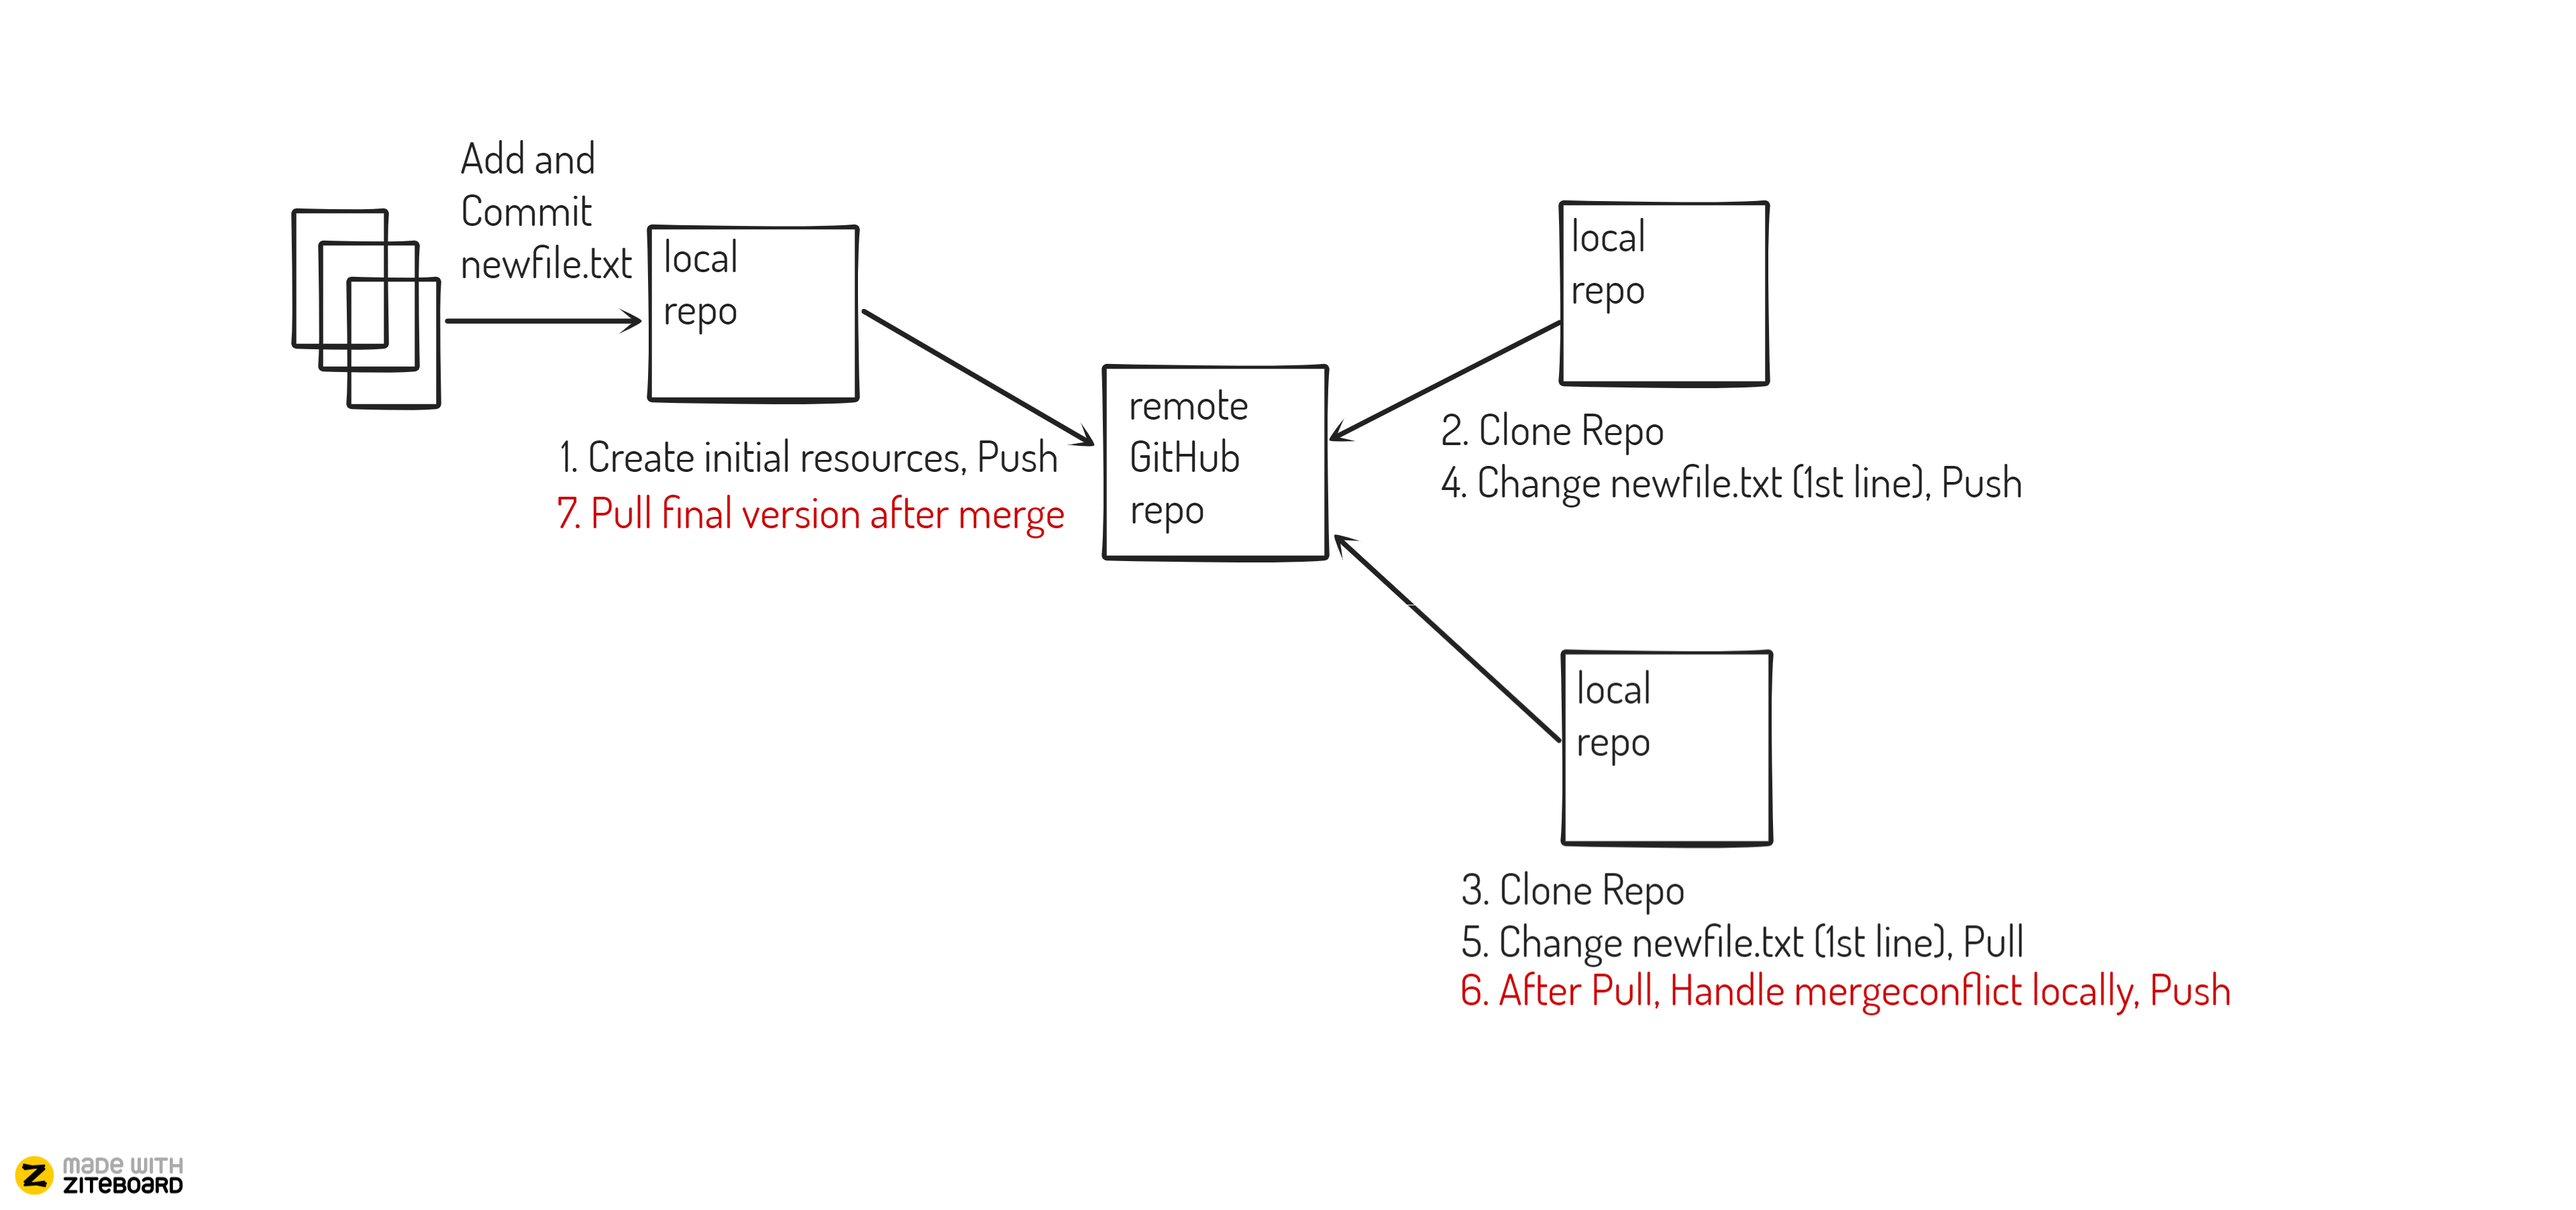
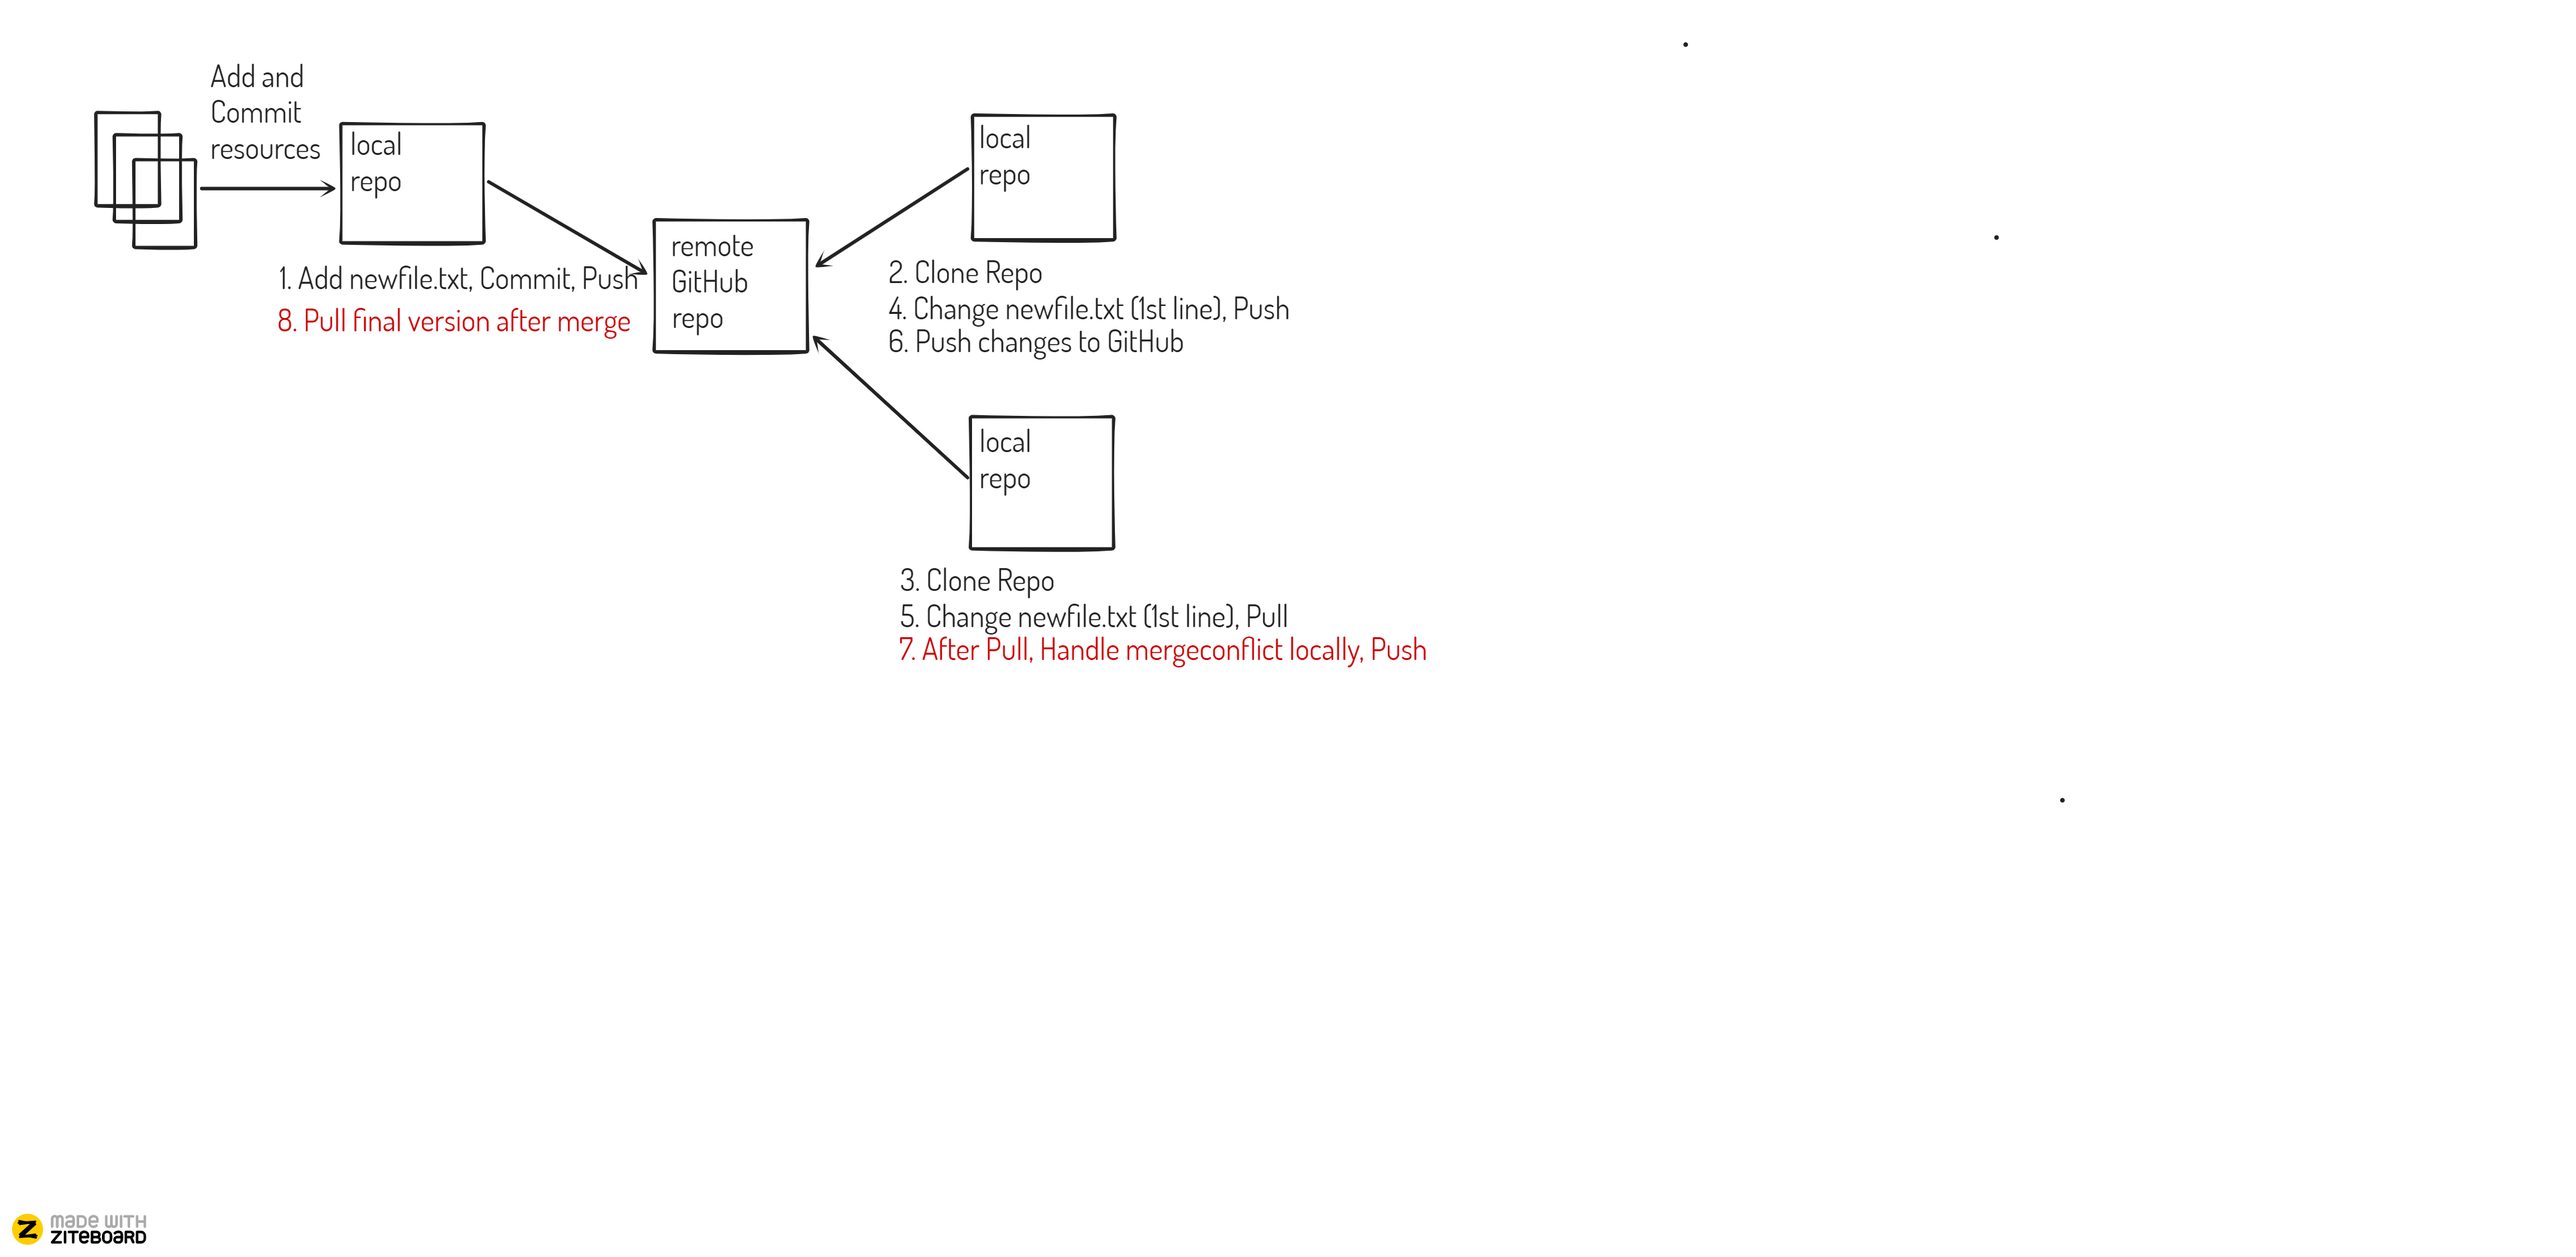
Add new Steps.

diff --git a/dojos/merge-a-SEA-resource.md b/dojos/merge-a-SEA-resource.md
@@ -1,6 +1,6 @@
-# Create a SEA Resource Repo
+# Merge a SEA Resource Repo
 
-    As a participant of SEA, I can quickly access (and change) resources which are important for the training.
+    As a participant of SEA, I want to add new resources to the existing GitHub Repo.
 
 ## Dojo
 
@@ -8,58 +8,23 @@
 
 ### Setup
 
-* Set default branch to "main"
-* `git config --global init.defaultBranch main`
+(Co) Step 1a: Create a local git repository  
+(Co) Step 1b: Add a new file with at least one line to the repo  
+(Co) Step 1c: Commit the new file  
+(Co) Step 1d: Create a new repository on GitHub  
+(Co) Step 1e: Push local changes to GitHub
 
-Step 1: Create a local git repository 
+(Ma) Step 2: Clone Repo (...) to local Repo  
+(Ma) Step 4: Change first line of newfile.txt and commit  
 
-* `git init`
+(Ch) Step 3: Clone Repo (...) to new local Repo  
+(Ch) Step 5: Change first line of newfile.txt and commit
 
-Step 2: Add a new file to the repo (eg. links.md)
+(Ma) Step 6: Push changes to GitHub
 
-* create file links.md
-* `git add links.md`
+(Ch) Step 7a: Push changes to GitHub  
+(Ch) Step 7b: Resolve Merge Conflict  
+(Ch) Step 7c: Push changes to GitHub
 
-Step 3: Commit the new file
-
-* `git commit -m "New file created."`
-
-Step 4: Create a new repository on GitHub
-
-* github.com im Browser aufrufen
-* eigenes repo unter eigenem User erstellen (zb https://github.com/WildCodeSchool/)
-
-Step 5: Set Origin on local Repo
-
-* Copy Repo URL (REPO_URL) from GitHub (HTTPS!)
-* `git remote add origin ${REPO_URL}`
-
-Step 6: Push the changes to the GitHub Repo
-
-* `git push origin main`
-
-_Note_: GitHub Personal Access Token is necessary here, see file [links.md](../links/links.md)
-
-Step 7: Clone Repo to new local Repo
-
-* `cd ..`
-* `git clone ${REPO_URL} sea-resources-clone`
-
-Step 8: Add new links to the links.md
-
-* `git add links.md`
-* `git commit -m "Links hinzugefügt."`
-
-Step 9: Push the changes
-
-* `git push origin main`
-
-Step 10: Revisit the changes in GitHub
-
-Step 11: Get the latest changes to first local Repo
-
-### Known Issues
-
-Q: "main and master are entirely different commit histories."  
-A: https://stackoverflow.com/questions/23344320/there-isnt-anything-to-compare-nothing-to-compare-branches-are-entirely-diffe
-
+(RR) Step 8a: Clone repo to local repo  
+(RR) Step 8b: Watch changes in file newfile.txt
